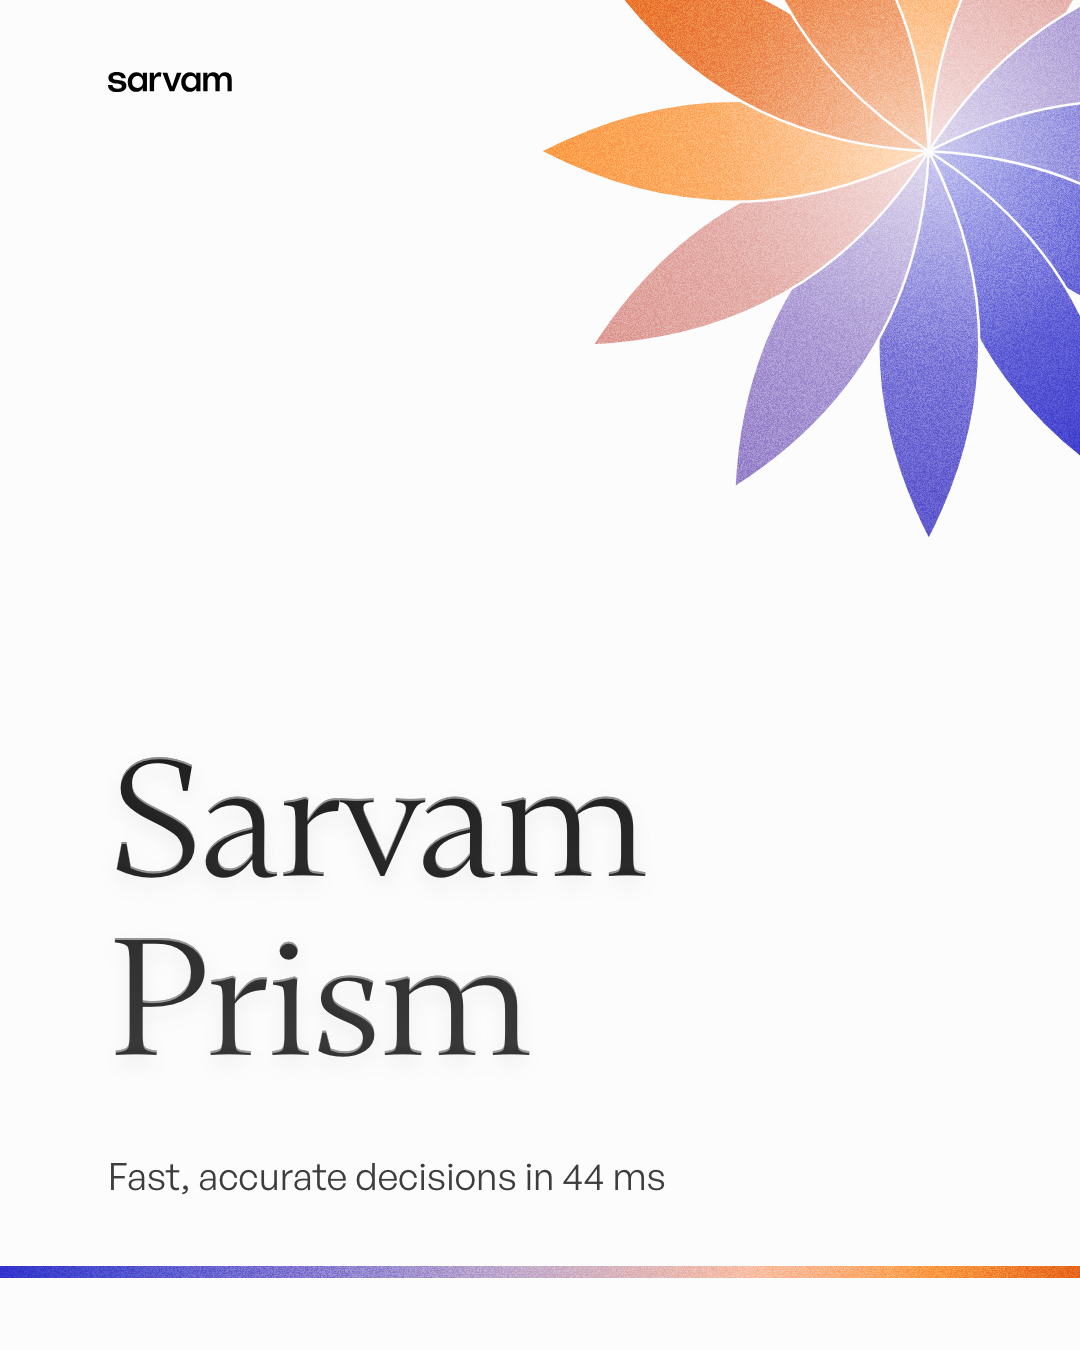
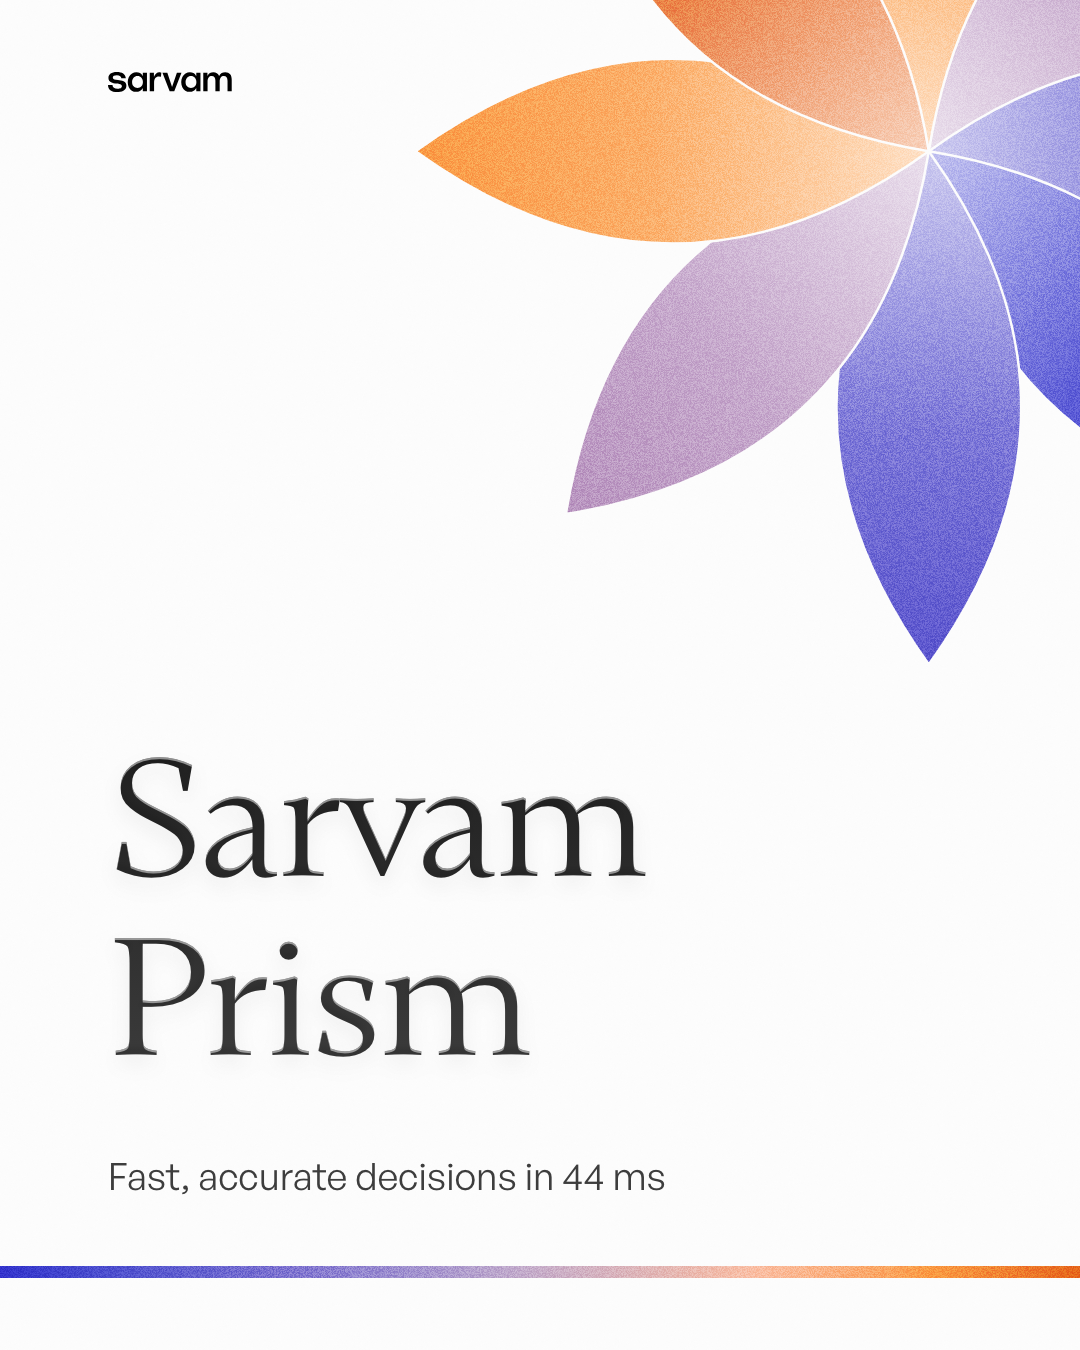
Prism lotus: 8 bigger, broader petals

Changed region(s): [[0.3972, 0.0, 1.0, 0.4978]]

diff --git a/src/components/sarvam/composer.tsx b/src/components/sarvam/composer.tsx
@@ -334,7 +334,7 @@ function spectrumDevice(spec: BannerSpec, F: Frame, _id: string, land: boolean):
   const kind = spec.rosette ?? "circles";
   const R = land ? F.H * 0.38 : F.W * 0.36;                     // rosette radius (the whole rosette spans 2R)
   const cx = F.W - (land ? F.H * 0.16 : F.W * 0.14), cy = land ? F.H * 0.16 : F.W * 0.14;
-  const ROSETTE_N: Record<Rosette, number> = { circles: 12, lobes: 12, lens: 12, orbits: 6, rings: 6 };
+  const ROSETTE_N: Record<Rosette, number> = { circles: 12, lobes: 12, lens: 8, orbits: 6, rings: 6 };
   const n = ROSETTE_N[kind];
   const els = Array.from({ length: n }, (_, i) => {
     // hue by direction, mirror-symmetric: copies facing into the canvas (lower-left) are indigo, copies facing the corner (upper-right) orange
@@ -348,7 +348,8 @@ function spectrumDevice(spec: BannerSpec, F: Frame, _id: string, land: boolean):
       }
       case "lens": {
         // vesica petals: equal lenses from the centre outward (a lotus drawn with two arcs each)
-        const L = R, w = R * 0.26, d = `M0 0 Q${w} ${-L / 2} 0 ${-L} Q${-w} ${-L / 2} 0 0 Z`;
+        // bigger than the line rosettes (the lotus is the hero of the corner); 8 broad petals
+        const L = R * (land ? 1.22 : 1.32), w = L * 0.36, d = `M0 0 Q${w} ${-L / 2} 0 ${-L} Q${-w} ${-L / 2} 0 0 Z`;
         if (!spec.rosetteSolid) return <path key={i} d={d} transform={`translate(${cx} ${cy}) rotate(${a})`} stroke={c} />;
         // solid: each petal filled base → tip, from a pale tint of its hue to the full hue; a canvas-coloured edge keeps overlaps crisp
         return (

diff --git a/design-system/design.md b/design-system/design.md
@@ -1989,7 +1989,7 @@ Every Sarvam banner is a **composition of a few choices + at most two lines of t
    | `gateway-window` | 3 carved layers opening onto warm cream light | Funding, big announcements |
    | `gateway-echo` | 5 thin outline gateways rising from the bottom | Announcements |
       | `gloss` | Mirrored cluster of glossy studio shapes | Events, programs, community |
-   | `spectrum` | **Our taste** `[addition]`: a calm off-white canvas, one thin hard-edged strip of the brand spectrum (indigo → orange) near the bottom, and a **rosette** in the top-right corner, cropped by the corner. It is built the way Sarvam's logomark is built: **one element repeated around a centre** `rosette`: **circles** (default: 12 equal circles through one centre, the logomark's construction), **lens** (12 vesica petals, a lotus; `rosetteSolid: true` fills each petal with a gradient from a pale tint of its hue at the centre to the full hue at the tip, with a 2.5px canvas-coloured edge between petals), **orbits** (6 equal ellipses turned by 30°), **rings** (6 concentric circles, the hue stepping outward), **lobes** (12 rounded petals). Every copy is the same line (4.5px Meta, 3.5px LinkedIn), and each one takes a hue of the spectrum by its direction: indigo toward the canvas, orange toward the corner. Text is set left and low (`editorial` layout). | Model launches and announcements that should feel calm and precise |
+   | `spectrum` | **Our taste** `[addition]`: a calm off-white canvas, one thin hard-edged strip of the brand spectrum (indigo → orange) near the bottom, and a **rosette** in the top-right corner, cropped by the corner. It is built the way Sarvam's logomark is built: **one element repeated around a centre** `rosette`: **circles** (default: 12 equal circles through one centre, the logomark's construction), **lens** (8 broad vesica petals, a lotus about 1.3× the size of the line rosettes, petal width 0.36 × length; `rosetteSolid: true` fills each petal with a gradient from a pale tint of its hue at the centre to the full hue at the tip, with a 2.5px canvas-coloured edge between petals), **orbits** (6 equal ellipses turned by 30°), **rings** (6 concentric circles, the hue stepping outward), **lobes** (12 rounded petals). Every copy is the same line (4.5px Meta, 3.5px LinkedIn), and each one takes a hue of the spectrum by its direction: indigo toward the canvas, orange toward the corner. Text is set left and low (`editorial` layout). | Model launches and announcements that should feel calm and precise |
    | `emblem` | One frosted, bevelled medallion with **one Nucleo icon engraved** in it, echo rings on true offsets. Text sits beside it (split on LinkedIn, stacked on Meta). `icon`: shield, plug, check, calendar, search, globe, inbox, megaphone, target, chart, book, sparkle, person | A capability you can name as an object |
    | `arch-window` | The gateway as a **window onto the real product**: a recessed arch (Mihrab / Domed door) standing on the bottom edge, light inside, one frozen product mock (`card`) seen through it. Text beside it | A product moment you can see |
    | `script-mandala` | **"Sarvam" in nine Indian scripts**, set in rings around a glowing disc. Meta: the headline sits in the disc. LinkedIn: the logomark sits in the disc and the text sits left (the wordmark is dropped; never both) `[addition]` | India, languages, mission, sovereignty, people |

diff --git a/design-system/recipes/banner-builder.md b/design-system/recipes/banner-builder.md
@@ -65,7 +65,7 @@ Every Sarvam banner is a **composition of a few choices + at most two lines of t
    | `gateway-window` | 3 carved layers opening onto warm cream light | Funding, big announcements |
    | `gateway-echo` | 5 thin outline gateways rising from the bottom | Announcements |
       | `gloss` | Mirrored cluster of glossy studio shapes | Events, programs, community |
-   | `spectrum` | **Our taste** `[addition]`: a calm off-white canvas, one thin hard-edged strip of the brand spectrum (indigo → orange) near the bottom, and a **rosette** in the top-right corner, cropped by the corner. It is built the way Sarvam's logomark is built: **one element repeated around a centre** `rosette`: **circles** (default: 12 equal circles through one centre, the logomark's construction), **lens** (12 vesica petals, a lotus; `rosetteSolid: true` fills each petal with a gradient from a pale tint of its hue at the centre to the full hue at the tip, with a 2.5px canvas-coloured edge between petals), **orbits** (6 equal ellipses turned by 30°), **rings** (6 concentric circles, the hue stepping outward), **lobes** (12 rounded petals). Every copy is the same line (4.5px Meta, 3.5px LinkedIn), and each one takes a hue of the spectrum by its direction: indigo toward the canvas, orange toward the corner. Text is set left and low (`editorial` layout). | Model launches and announcements that should feel calm and precise |
+   | `spectrum` | **Our taste** `[addition]`: a calm off-white canvas, one thin hard-edged strip of the brand spectrum (indigo → orange) near the bottom, and a **rosette** in the top-right corner, cropped by the corner. It is built the way Sarvam's logomark is built: **one element repeated around a centre** `rosette`: **circles** (default: 12 equal circles through one centre, the logomark's construction), **lens** (8 broad vesica petals, a lotus about 1.3× the size of the line rosettes, petal width 0.36 × length; `rosetteSolid: true` fills each petal with a gradient from a pale tint of its hue at the centre to the full hue at the tip, with a 2.5px canvas-coloured edge between petals), **orbits** (6 equal ellipses turned by 30°), **rings** (6 concentric circles, the hue stepping outward), **lobes** (12 rounded petals). Every copy is the same line (4.5px Meta, 3.5px LinkedIn), and each one takes a hue of the spectrum by its direction: indigo toward the canvas, orange toward the corner. Text is set left and low (`editorial` layout). | Model launches and announcements that should feel calm and precise |
    | `emblem` | One frosted, bevelled medallion with **one Nucleo icon engraved** in it, echo rings on true offsets. Text sits beside it (split on LinkedIn, stacked on Meta). `icon`: shield, plug, check, calendar, search, globe, inbox, megaphone, target, chart, book, sparkle, person | A capability you can name as an object |
    | `arch-window` | The gateway as a **window onto the real product**: a recessed arch (Mihrab / Domed door) standing on the bottom edge, light inside, one frozen product mock (`card`) seen through it. Text beside it | A product moment you can see |
    | `script-mandala` | **"Sarvam" in nine Indian scripts**, set in rings around a glowing disc. Meta: the headline sits in the disc. LinkedIn: the logomark sits in the disc and the text sits left (the wordmark is dropped; never both) `[addition]` | India, languages, mission, sovereignty, people |

diff --git a/process/prompt-log.md b/process/prompt-log.md
@@ -425,3 +425,7 @@ Entry format:
 - The rosette switched to **lens** (12 vesica petals, a lotus).
 - Then made solid (`rosetteSolid`): each petal is filled base → tip, from a 70% white tint of its spectrum hue to the full hue, so the lotus shows the whole spectrum (indigo petals facing the canvas, orange toward the corner). A 2.5px (Meta) / 2px (LinkedIn) canvas-coloured edge keeps the overlapping petals crisp at the centre. No blur, no stroke colour.
 - QA PASS, re-exported. The builder has a Petals line / solid control.
+
+## 2026-11-04 — Lotus: bigger, fewer, broader petals
+- Prompts (verbatim): "make it bigger in size and have a little bit fewer petals in number." → "Make the petal thicker."
+- Lens rosette: 12 → 8 petals; length ×1.32 (Meta) / ×1.22 (LinkedIn); petal width 0.26 R → 0.36 × length. It stays clear of the headline in both formats. QA PASS, re-exported.
